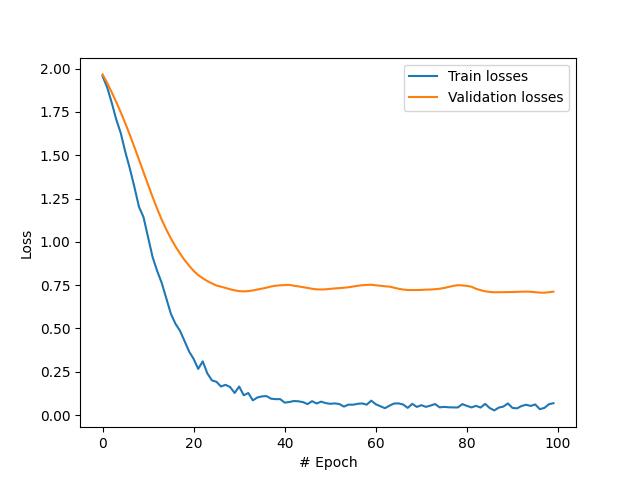
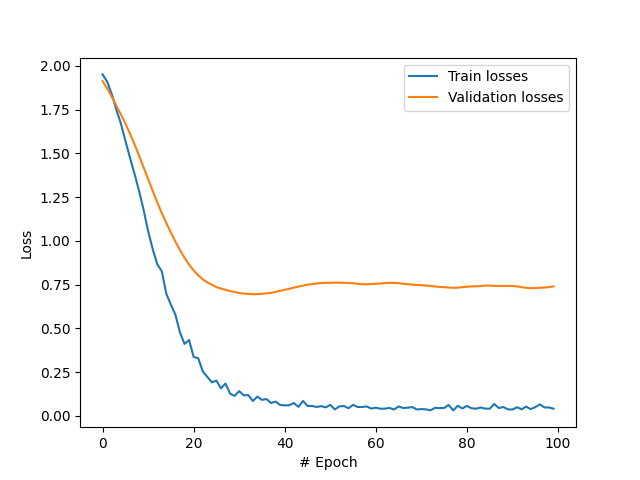
..

diff --git a/gcnn.py b/gcnn.py
@@ -1,14 +1,10 @@
-from abc import ABC
-
 import torch
 import torch.nn as nn
 import torch.nn.functional as F
-from torch_geometric.datasets import TUDataset, Planetoid, KarateClub, MNISTSuperpixels
+from torch_geometric.datasets import Planetoid
 import networkx as nx
 import matplotlib.pyplot as plt
 import numpy as np
-from tqdm import tqdm
-import sys
 import time
 
 
@@ -26,20 +22,12 @@ class GCNN(nn.Module):
     def __init__(self, in_dim, hid_dim=32, out_dim=10):
         super(GCNN, self).__init__()
         self.gconv1 = GrahpConv(in_channels=in_dim, out_channels=hid_dim)
-        self.gconv2 = GrahpConv(hid_dim, hid_dim)
-        self.gconv3 = GrahpConv(hid_dim, hid_dim)
-        self.gconv4 = GrahpConv(hid_dim, out_dim)
+        self.gconv2 = GrahpConv(hid_dim, out_dim)
 
     def forward(self, x, A):
         h = F.relu(self.gconv1(x, A))
         h = F.dropout(h, p=0.5, training=self.training)
-        h = F.relu(self.gconv2(h, A))
-        h = F.dropout(h, p=0.5, training=self.training)
-        h = F.relu(self.gconv3(h, A))
-        h = F.dropout(h, p=0.5, training=self.training)
-        h = self.gconv4(h, A)
-        h = F.dropout(h, p=0.5, training=self.training)
-
+        h = self.gconv2(h, A)
         return h
 
 
@@ -180,8 +168,8 @@ def plot_dataset(dataset):
 
 
 if __name__ == '__main__':
-    device = torch.device('cuda' if torch.cuda.is_available() else 'cpu')
 
+    device = torch.device('cuda' if torch.cuda.is_available() else 'cpu')
     print(f'Device: {device}')
 
     dataset = Planetoid(root='/tmp/Cora', name='Cora')  # Cora, CiteSeer, or PubMed
@@ -197,8 +185,6 @@ if __name__ == '__main__':
     num_targets = len(torch.unique(y))
     print(f'Num classes: {num_targets}')
 
-    # data.train_mask = data.train_mask.to(device)
-
     A = create_adjacency_matrix(num_nodes, data.edge_index, device=device)
 
     model = GCNN(num_features, hid_dim=16, out_dim=num_targets)
@@ -207,7 +193,7 @@ if __name__ == '__main__':
     if torch.cuda.is_available():
         model.cuda()
 
-    train(model, optimizer, data, A, n_epochs=1000, plot=True, device=device)
+    train(model, optimizer, data, A, n_epochs=100, plot=True, device=device)
 
     test_acc, _ = get_acc_and_loss(x, y, model, A, type='test', device=device)
     print(f'---- Accuracy on test set: {test_acc}')
